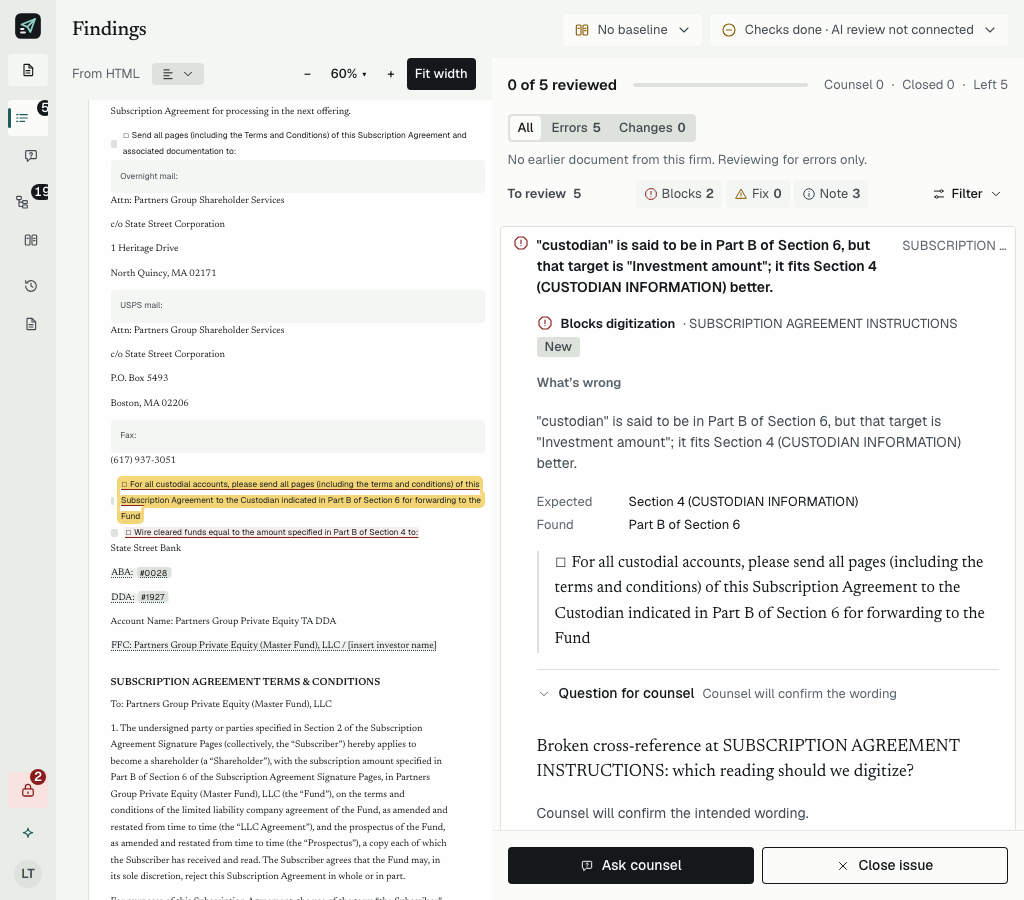
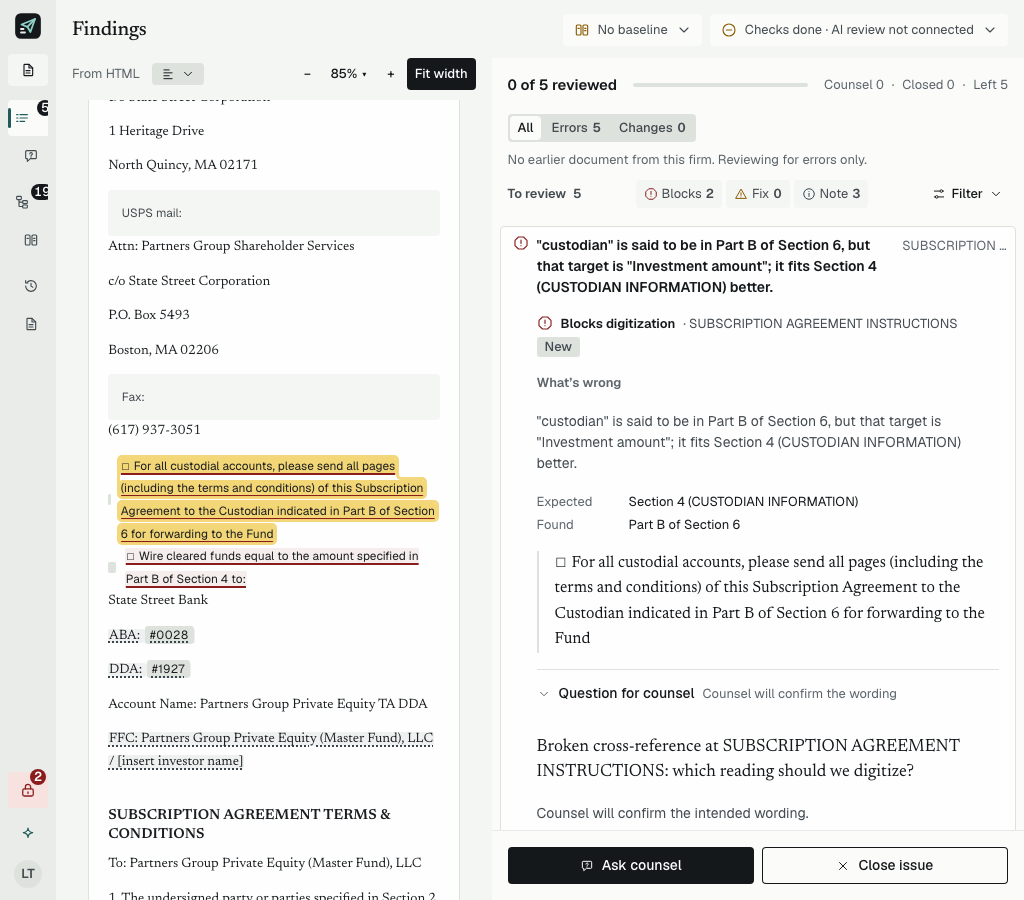
fix: findings v2 fit width keeps text at 85% and reflows the page in narrow areas

Changed region(s): [[0.0938, 0.0933, 0.5, 1.0]]

diff --git a/apps/web/e2e/findings-v2.spec.ts b/apps/web/e2e/findings-v2.spec.ts
@@ -230,7 +230,7 @@ test.describe('findings-v2', () => {
     await expect(fitBtn).toHaveAttribute('aria-pressed', 'true');
     const expectedFit = async () =>
       zoomPane(page).evaluate((el) =>
-        Math.min(175, Math.max(60, Math.round(((el.clientWidth - 64) / 700) * 100))),
+        Math.min(175, Math.max(85, Math.round(((el.clientWidth - 64) / 700) * 100))),
       );
     await expect.poll(async () => (await dz(page)) === (await expectedFit())).toBe(true);
     const fit = await dz(page);
@@ -351,8 +351,9 @@ test.describe('findings-v2', () => {
     });
   }
 
-  // D15 amendment: Fit width clamps 60-175; the page fits its area, and the reading area never
-  // extends under the findings panel. When even 60% is too wide, the area scrolls from the left.
+  // D15 amendments: Fit width clamps 85-175; the page fits its area, and the reading area never
+  // extends under the findings panel. Below 85% the text stays at 85% and the page reflows to
+  // the area width minus the gutters (no horizontal scroll).
   for (const [w, h, fpw] of [
     [1440, 900, null],
     [1024, 768, null],
@@ -393,6 +394,9 @@ test.describe('findings-v2', () => {
           pageRight: p.right,
           overflow: el.scrollWidth - el.clientWidth,
           fitNeeded: Math.round(((el.clientWidth - 64) / 700) * 100),
+          clientW: el.clientWidth,
+          pageW: p.width,
+          bodyFont: parseFloat(getComputedStyle(paper.querySelector('p') ?? paper).fontSize),
           hitInPanel: !!hit && !!hit.closest('[data-testid="findings-column"]'),
         };
       });
@@ -402,17 +406,21 @@ test.describe('findings-v2', () => {
       expect(m.paneRight).toBeLessThanOrEqual(m.panelLeft + 1);
       expect(m.hitInPanel).toBe(true);
       expect(m.pageLeft).toBeGreaterThanOrEqual(0);
-      if (m.fitNeeded >= 60) {
-        // fit suffices: the page's right edge (with its border) is inside the area, no scroll
+      // in every case the page's right edge (with its border) is inside the area, no scroll
+      expect(m.pageRight).toBeLessThanOrEqual(m.areaInner + 1);
+      expect(m.pageRight).toBeLessThanOrEqual(m.areaRight + 1);
+      expect(m.overflow).toBeLessThanOrEqual(1);
+      if (m.fitNeeded >= 85) {
         expect(pct).toBe(Math.min(175, m.fitNeeded));
-        expect(m.pageRight).toBeLessThanOrEqual(m.areaInner + 1);
-        expect(m.overflow).toBeLessThanOrEqual(1);
       } else {
-        // even 60% is too wide: horizontal scroll from the page's left edge
-        expect(pct).toBe(60);
-        expect(m.overflow).toBeGreaterThan(0);
+        // reflow: text stays at 85%, page width = area - 64px
+        expect(pct).toBe(85);
+        expect(Math.abs(m.pageW - (m.clientW - 64))).toBeLessThanOrEqual(1);
+        expect(m.bodyFont).toBeGreaterThanOrEqual(0.85 * 16 - 0.01);
       }
-      if (fpw !== null) expect(m.fitNeeded).toBeLessThan(60);
+      // the default 1440 / 1024 areas and the 65% panel all need the reflow
+      expect(m.fitNeeded).toBeLessThan(85);
+      console.log(`fit ${w}x${h} panel ${fpw ?? 'default'}: area ${m.clientW}px raw ${m.fitNeeded}% -> ${pct}% page ${m.pageW}px font ${m.bodyFont}px`);
       await page.close();
     });
   }

diff --git a/apps/web/src/features/review/zoom/findings-v2-zoom-math.test.ts b/apps/web/src/features/review/zoom/findings-v2-zoom-math.test.ts
@@ -3,6 +3,7 @@ import {
   DOCZOOM_KEY,
   PRESETS,
   effectivePct,
+  fitLayout,
   fitWidth,
   parseZoom,
   zoomKeyAction,
@@ -26,6 +27,19 @@ describe('findings-v2-zoom-math', () => {
     expect(fitWidth(1900)).toBe(175);
     expect(fitWidth(4000)).toBe(175);
     expect(fitWidth(1000)).toBe(134);
+  });
+  it('fitLayout: scale only at 85% or more, reflow below (D15 amendment 2)', () => {
+    expect(fitLayout(764)).toEqual({ pct: 100 });
+    expect(fitLayout(1900)).toEqual({ pct: 175 });
+    // (659 - 64) / 700 = 85% exactly: still scale-only
+    expect(fitLayout(659)).toEqual({ pct: 85 });
+    // ~1440 reading area: raw fit 77% -> 85% with the page reflowed to area - 64
+    expect(fitLayout(600)).toEqual({ pct: 85, pageWidth: 536 });
+    expect(fitLayout(460)).toEqual({ pct: 85, pageWidth: 396 });
+    // tiny/invalid areas never produce a zero or negative page width
+    expect(fitLayout(10)).toEqual({ pct: 85, pageWidth: 1 });
+    expect(fitLayout(Number.NaN)).toEqual({ pct: 85, pageWidth: 1 });
+    expect(effectivePct({ mode: 'fit', pct: 100 }, 460)).toBe(85);
   });
   it('effectivePct', () => {
     expect(effectivePct({ mode: 'fit', pct: 150 }, 764)).toBe(100);
@@ -53,14 +67,14 @@ describe('findings-v2-zoom-math', () => {
     expect(zoomReducer({ mode: 'manual', pct: 60 }, { type: 'out' }, 0).pct).toBe(60);
     expect(zoomReducer({ mode: 'manual', pct: 75 }, { type: 'out' }, 0).pct).toBe(70);
     expect(zoomReducer({ mode: 'manual', pct: 63 }, { type: 'out' }, 0).pct).toBe(60);
-    // from a 60% fit: - is a no-op at 60, + goes to 70
+    // from an 85% reflow fit (D15 amendment 2): - goes to 80, + goes to 90
     expect(zoomReducer({ mode: 'fit', pct: 100 }, { type: 'out' }, 0)).toEqual({
       mode: 'manual',
-      pct: 60,
+      pct: 80,
     });
     expect(zoomReducer({ mode: 'fit', pct: 100 }, { type: 'in' }, 0)).toEqual({
       mode: 'manual',
-      pct: 70,
+      pct: 90,
     });
   });
   it('preset clamps and fit keeps the manual pct', () => {

diff --git a/apps/web/src/styles/findings-v2.css b/apps/web/src/styles/findings-v2.css
@@ -732,13 +732,15 @@
   scrollbar-gutter: stable;
 }
 .docscroll[data-dz] .paper {
-  width: calc(700px * var(--dz));
-  max-width: calc(700px * var(--dz));
+  /* reflow (fit below 85%): --dz-page-w = area - 64px, --dz-box = that width / 700 */
+  width: var(--dz-page-w, calc(700px * var(--dz)));
+  max-width: var(--dz-page-w, calc(700px * var(--dz)));
   /* the white page on the grey reading area: centered when it fits, framed when it is wider */
   margin: 0 auto;
   background: var(--paper);
   border: 1px solid var(--step);
-  padding: calc(52px * var(--dz)) calc(60px * var(--dz)) calc(72px * var(--dz));
+  padding: calc(52px * var(--dz-box, var(--dz))) calc(60px * var(--dz-box, var(--dz)))
+    calc(72px * var(--dz-box, var(--dz)));
   font-size: calc(16px * var(--dz));
 }
 .docscroll[data-dz] .paper h1 {
@@ -803,7 +805,8 @@
     grid-template-columns: minmax(0, 1fr) max(40%, calc(var(--fpw, 55) * 1%));
   }
   .docscroll[data-dz] .paper {
-    padding: calc(40px * var(--dz)) calc(36px * var(--dz)) calc(56px * var(--dz));
+    padding: calc(40px * var(--dz-box, var(--dz))) calc(36px * var(--dz-box, var(--dz)))
+      calc(56px * var(--dz-box, var(--dz)));
   }
 }
 
@@ -826,7 +829,8 @@
     display: none;
   }
   .docscroll[data-dz] .paper {
-    padding: calc(24px * var(--dz)) calc(16px * var(--dz)) calc(40px * var(--dz));
+    padding: calc(24px * var(--dz-box, var(--dz))) calc(16px * var(--dz-box, var(--dz)))
+      calc(40px * var(--dz-box, var(--dz)));
   }
 }
 

diff --git a/apps/web/src/features/review/zoom/findings-v2-use-doc-zoom.test.tsx b/apps/web/src/features/review/zoom/findings-v2-use-doc-zoom.test.tsx
@@ -114,6 +114,30 @@ describe('findings-v2-use-doc-zoom', () => {
     expect(el.style.getPropertyValue('--dz')).toBe('1');
   });
 
+  it('sets the reflow page width vars only when fit would be below 85% (D15 amendment 2)', () => {
+    mount();
+    const el = container!.querySelector('.docscroll') as HTMLElement;
+    expect(latest!.pageWidth).toBeUndefined();
+    expect(el.style.getPropertyValue('--dz-page-w')).toBe('');
+    expect(el.style.getPropertyValue('--dz-box')).toBe('');
+    resize(600);
+    expect(latest!.pct).toBe(85);
+    expect(latest!.pageWidth).toBe(536);
+    expect(el.getAttribute('data-dz')).toBe('85');
+    expect(el.style.getPropertyValue('--dz')).toBe('0.85');
+    expect(el.style.getPropertyValue('--dz-page-w')).toBe('536px');
+    expect(Number(el.style.getPropertyValue('--dz-box'))).toBeCloseTo(536 / 700, 6);
+    // manual zoom never reflows, even in a narrow area
+    act(() => latest!.dispatch({ type: 'preset', pct: 75 }));
+    expect(latest!.pageWidth).toBeUndefined();
+    expect(el.style.getPropertyValue('--dz-page-w')).toBe('');
+    // back to scale-only fit when the area grows
+    act(() => latest!.dispatch({ type: 'fit' }));
+    resize(764);
+    expect(latest!.pageWidth).toBeUndefined();
+    expect(el.style.getPropertyValue('--dz-page-w')).toBe('');
+  });
+
   it('ignores width deltas below 2px and recomputes fit at 2px or more', () => {
     mount();
     resize(765);

diff --git a/apps/web/src/features/review/zoom/use-doc-zoom.ts b/apps/web/src/features/review/zoom/use-doc-zoom.ts
@@ -5,6 +5,8 @@ import { isEditableTarget } from '../v2/shortcut-guard';
 import {
   DOCZOOM_KEY,
   effectivePct,
+  fitLayout,
+  PAGE_PX,
   parseZoom,
   zoomKeyAction,
   zoomReducer,
@@ -22,6 +24,8 @@ export interface DocZoom {
   dispatch(a: ZoomAction): void;
   style: CSSProperties;
   dataDz: string;
+  /** Reflowed page width in px (fit mode only, when the fit scale would be below 85%). */
+  pageWidth?: number;
 }
 
 function findMark(root: ParentNode, id: string): Element | null {
@@ -103,13 +107,22 @@ export function useDocZoom(
     if (mark) scrollIntoViewVertically(mark, 'center');
   }, [pct, state, scrollRef]);
 
+  const pageWidth = state.mode === 'fit' ? fitLayout(areaPx).pageWidth : undefined;
+  const style: Record<string, string | number> = { '--dz': pct / 100 };
+  if (pageWidth !== undefined) {
+    // reflow: page width follows the area; padding keeps the 700px page's padding-to-width ratio
+    style['--dz-page-w'] = `${pageWidth}px`;
+    style['--dz-box'] = pageWidth / PAGE_PX;
+  }
+
   return {
     state,
     pct,
     areaPx,
     dispatch,
-    style: { '--dz': pct / 100 } as CSSProperties,
+    style: style as CSSProperties,
     dataDz: String(pct),
+    ...(pageWidth !== undefined ? { pageWidth } : {}),
   };
 }
 

diff --git a/apps/web/src/features/review/zoom/zoom-math.ts b/apps/web/src/features/review/zoom/zoom-math.ts
@@ -8,6 +8,8 @@ export const ZOOM_MAX = 200;
 export const ZOOM_STEP = 10;
 export const FIT_MIN = 60;
 export const FIT_MAX = 175;
+/** Fit width never shrinks text below this; narrower areas reflow the page instead (D15 amendment 2). */
+export const FIT_TEXT_MIN = 85;
 export const PRESETS: readonly number[] = Object.freeze([75, 90, 100, 125, 150]);
 
 /** `pct` is meaningful only in manual mode. */
@@ -23,8 +25,21 @@ export function fitWidth(areaPx: number): number {
   return clamp(Math.round(((a - GUTTER_PX) / PAGE_PX) * 100), FIT_MIN, FIT_MAX);
 }
 
+/** `pageWidth` is set only when the page reflows to the area (fit scale would be below 85%). */
+export interface FitResult {
+  pct: number;
+  pageWidth?: number;
+}
+
+export function fitLayout(areaPx: number): FitResult {
+  const raw = fitWidth(areaPx);
+  if (raw >= FIT_TEXT_MIN) return { pct: raw };
+  const a = Number.isFinite(areaPx) ? areaPx : 0;
+  return { pct: FIT_TEXT_MIN, pageWidth: Math.max(1, Math.floor(a - GUTTER_PX)) };
+}
+
 export function effectivePct(s: ZoomState, areaPx: number): number {
-  return s.mode === 'fit' ? fitWidth(areaPx) : s.pct;
+  return s.mode === 'fit' ? fitLayout(areaPx).pct : s.pct;
 }
 
 export type ZoomAction =

diff --git a/apps/web/src/features/review/zoom/findings-v2-css-guard.test.ts b/apps/web/src/features/review/zoom/findings-v2-css-guard.test.ts
@@ -67,7 +67,7 @@ function bodyOf(selector: string): string {
 const ZOOM_TABLE: [string, string[]][] = [
   [
     '.docscroll[data-dz] .paper',
-    ['max-width: calc(700px', 'calc(52px', 'calc(60px', 'calc(72px', 'font-size: calc(16px'],
+    ['max-width: var(--dz-page-w, calc(700px', 'var(--dz-box, var(--dz))', 'calc(52px', 'calc(60px', 'calc(72px', 'font-size: calc(16px'],
   ],
   ['.docscroll[data-dz] .paper h1', ['font-size: calc(28px', 'margin-bottom: calc(4px']],
   ['.docscroll[data-dz] .paper .sub', ['font-size: calc(16px', 'margin-bottom: calc(36px']],
